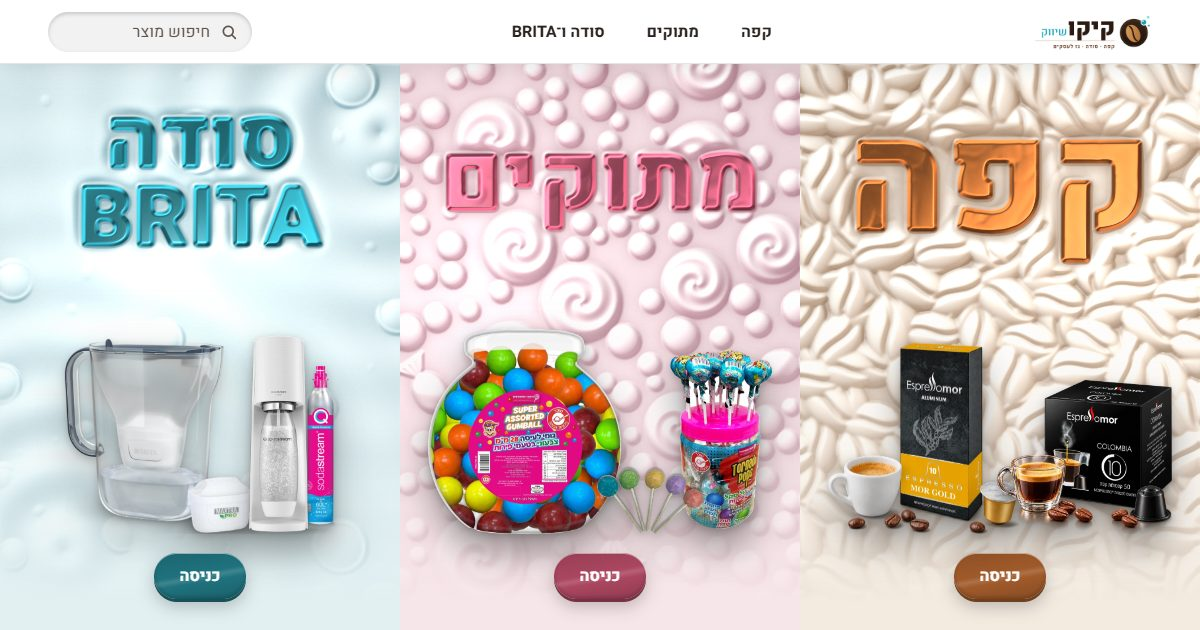
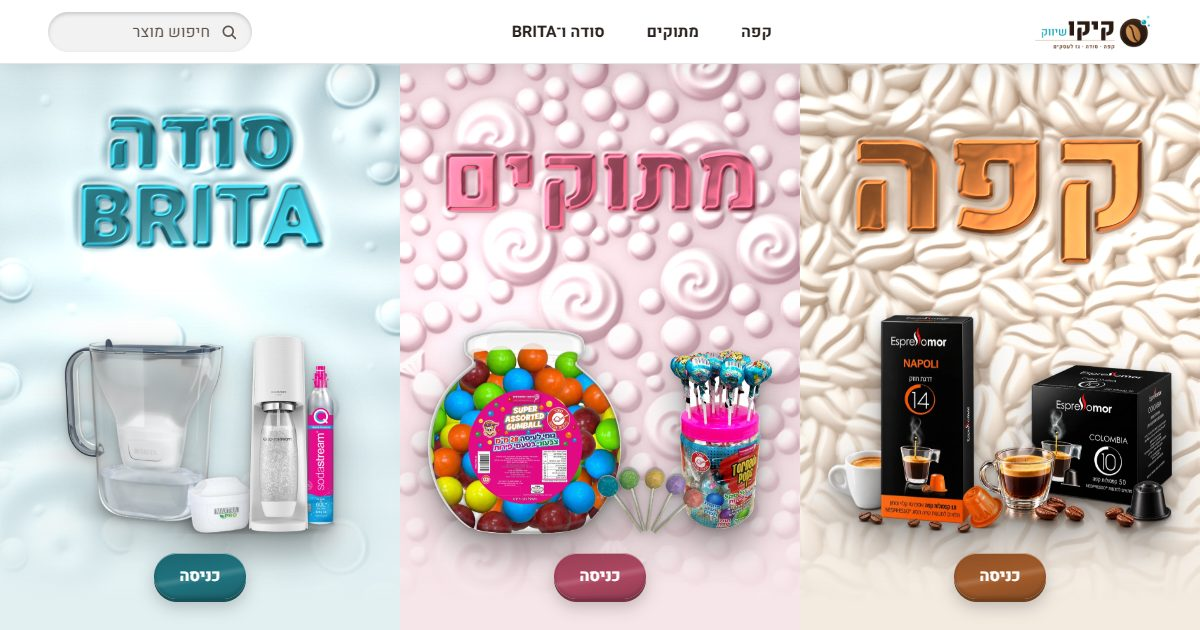
Remove 14 products Yossi does not sell; update hero and share image

Changed region(s): [[0.6783, 0.4825, 0.9867, 0.8444]]

diff --git a/products.js b/products.js
@@ -13,9 +13,8 @@ window.KIKO = {
     {
       id: "coffee", title: "עולם הקפה", short: "קפה", wall: ["קפה"], band: ["עולם", "הקפה"],
       lead: "קפסולות אספרסו מור למכונות Nespresso",
-      hero: ["coffee_colombia", "coffee_gold"],
+      hero: ["coffee_colombia", "coffee_napoli"],
       groups: [
-        { id: "alu", title: "קפסולות אלומיניום" },
         { id: "classic", title: "סדרת החוזק" },
         { id: "drinks", title: "טעמים ומשקאות" },
         { id: "boxes", title: "מארזים גדולים" }
@@ -51,14 +50,6 @@ window.KIKO = {
     var gasU = ["החלפת בלון", "בלון חדש"];
     return [
       /* ---------- קפה ---------- */
-      { id: "c01", w: "coffee", g: "alu", name: "קפסולות Mor Gold", spec: "ערביקה ורובוסטה, קרמה קטיפתית", strength: 10, img: "coffee_gold", units: cap },
-      { id: "c02", w: "coffee", g: "alu", name: "קפסולות Forte", spec: "חזק במיוחד, קלייה איטית", strength: 11, img: "coffee_forte", units: cap },
-      { id: "c03", w: "coffee", g: "alu", name: "קפסולות Cremoso", spec: "גוף מלא, קלייה כהה", strength: 12, img: "coffee_cremoso", units: cap },
-      { id: "c04", w: "coffee", g: "alu", name: "קפסולות Classico", spec: "מעודן, גוף בינוני וסיומת חלקה", strength: 8, img: "coffee_classico", units: cap },
-      { id: "c05", w: "coffee", g: "alu", name: "קפסולות House Blend", spec: "מאוזן, ארומה עדינה", strength: 9, img: "coffee_house", units: cap },
-      { id: "c06", w: "coffee", g: "alu", name: "קפסולות קפה עם הל", spec: "אספרסו ים־תיכוני עם הל קלוי", strength: 8, img: "coffee_hel", units: cap },
-      { id: "c07", w: "coffee", g: "alu", name: "קפסולות Roaster's Choice", spec: "עמוק, גוף מודגש וסיומת ארוכה", strength: 11, img: "coffee_roasters", units: cap },
-      { id: "c08", w: "coffee", g: "alu", name: "קפסולות Terra Verde", spec: "מאוזן, לאספרסו קצר או ארוך", strength: 9, img: "coffee_terra_verde", units: cap },
 
       { id: "c11", w: "coffee", g: "classic", name: "קפסולות Crema", spec: "תערובת מעודנת וקטיפתית", strength: 6, img: "coffee_crema", units: cap },
       { id: "c12", w: "coffee", g: "classic", name: "קפסולות Aroma", spec: "לקפוצ׳ינו, הפוך ואספרסו", strength: 7, img: "coffee_aroma", units: cap },
@@ -84,10 +75,6 @@ window.KIKO = {
       { id: "c34", w: "coffee", g: "boxes", name: "מארז Costa Rica", spec: "טעם עמוק וארומה אקזוטית", strength: 8, img: "coffee_costarica", units: ["מארז 50", "מארז 100"] },
       { id: "c35", w: "coffee", g: "boxes", name: "מארז Ethiopia", spec: "חמיצות נמוכה וגוף חזק", strength: 7, img: "coffee_ethiopia", units: ["מארז 50", "מארז 100"] },
       { id: "c36", w: "coffee", g: "boxes", name: "מארז India", spec: "ארומה חזקה וטעם פירותי", strength: 6, img: "coffee_india", units: ["מארז 50", "מארז 100"] },
-      { id: "c37", w: "coffee", g: "boxes", name: "מארז Italia Intenso", spec: "קלייה איטלקית עוצמתית", strength: 10, img: "coffee_italia_intenso", units: ["מארז 50"] },
-      { id: "c38", w: "coffee", g: "boxes", name: "מארז Italia Pieno", spec: "מאוזן, קלייה איטלקית", strength: 8, img: "coffee_italia_piano", units: ["מארז 50"] },
-      { id: "c39", w: "coffee", g: "boxes", name: "מארז Italia Cappuccino", spec: "משקה חלבי", img: "coffee_italia_cap", units: ["מארז 50"] },
-      { id: "c40", w: "coffee", g: "boxes", name: "מארז Italia Chocolate", spec: "משקה קקאו חלבי", img: "coffee_italia_choco", units: ["מארז 50"] },
       { id: "c41", w: "coffee", g: "boxes", name: "קפסולות נטול קפאין", spec: "10 שרוולים של 10 קפסולות", img: "coffee_decaf", units: ["מארז 100"] },
 
       /* ---------- מתוקים ---------- */
@@ -126,8 +113,6 @@ window.KIKO = {
       { id: "d32", w: "soda", g: "flavors", name: "טעם משקה אנרגיה", spec: "עד 9 ליטר משקה", img: "soda_energy", units: six, sku: "1424271721" },
       { id: "d41", w: "soda", g: "brita", name: "קנקן Style Essential לבן", spec: "כולל מסנן MAXTRA PRO אחד", img: "soda_brita_white", units: ["יחידה"], sku: "1071258720" },
       { id: "d42", w: "soda", g: "brita", name: "קנקן Style Essential כחול סערה", spec: "כולל מסנן MAXTRA PRO אחד", img: "soda_brita_blue", units: ["יחידה"], sku: "1071259720" },
-      { id: "d43", w: "soda", g: "brita", name: "קנקן Style Essential חול ים", spec: "כולל 3 מסנני MAXTRA PRO", img: "soda_brita_sand", units: ["יחידה"], sku: "1071260720" },
-      { id: "d44", w: "soda", g: "brita", name: "קנקן Glass מזכוכית", spec: "כולל מסנן MAXTRA PRO אחד", img: "soda_brita_glass", units: ["יחידה"], sku: "1071261720" },
       { id: "d45", w: "soda", g: "brita", name: "מסנני MAXTRA PRO", spec: "Taste & Protect Expert, שלישייה", img: "soda_brita_filter2", units: ["חבילת 3 מסננים"], sku: "1071262720" }
     ];
   })()
